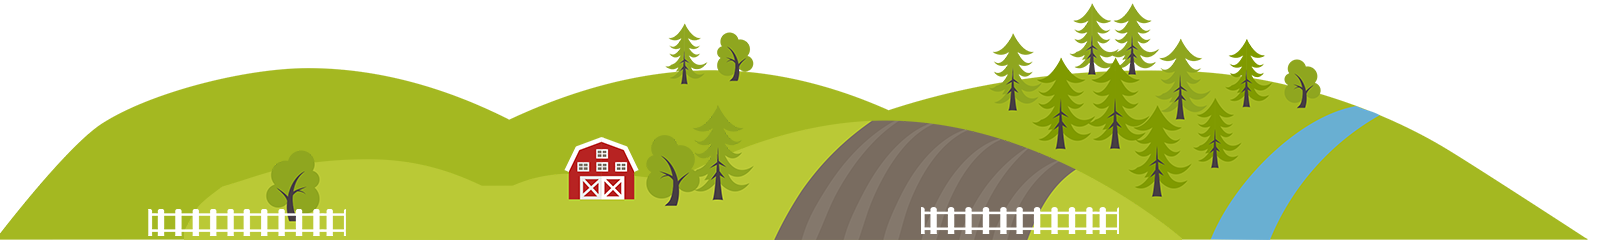
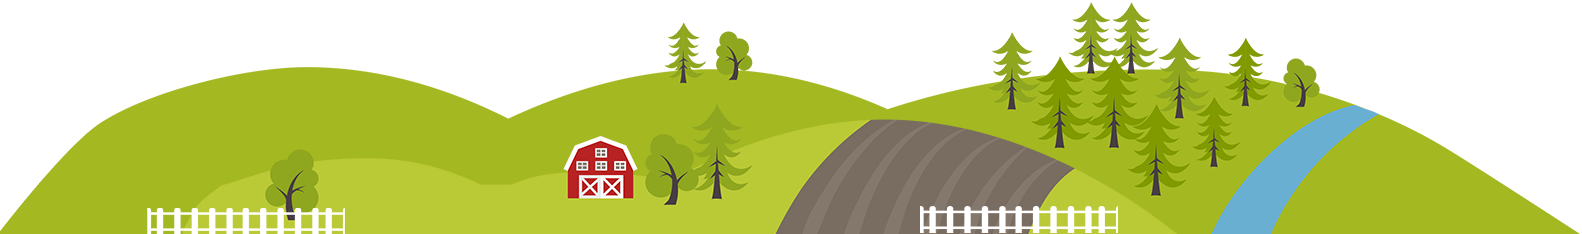
更

diff --git a/HomeForStray/public/stylesheets/lynnstyle.css b/HomeForStray/public/stylesheets/lynnstyle.css
@@ -378,7 +378,7 @@ div.dropdown-menu::before{
 .view{
     background-image:url(../img/新圖/view1.png);
     width: 100%;
-    height: 225px;
+    height: 220px;
     background-size:cover;
 }
 .river{
